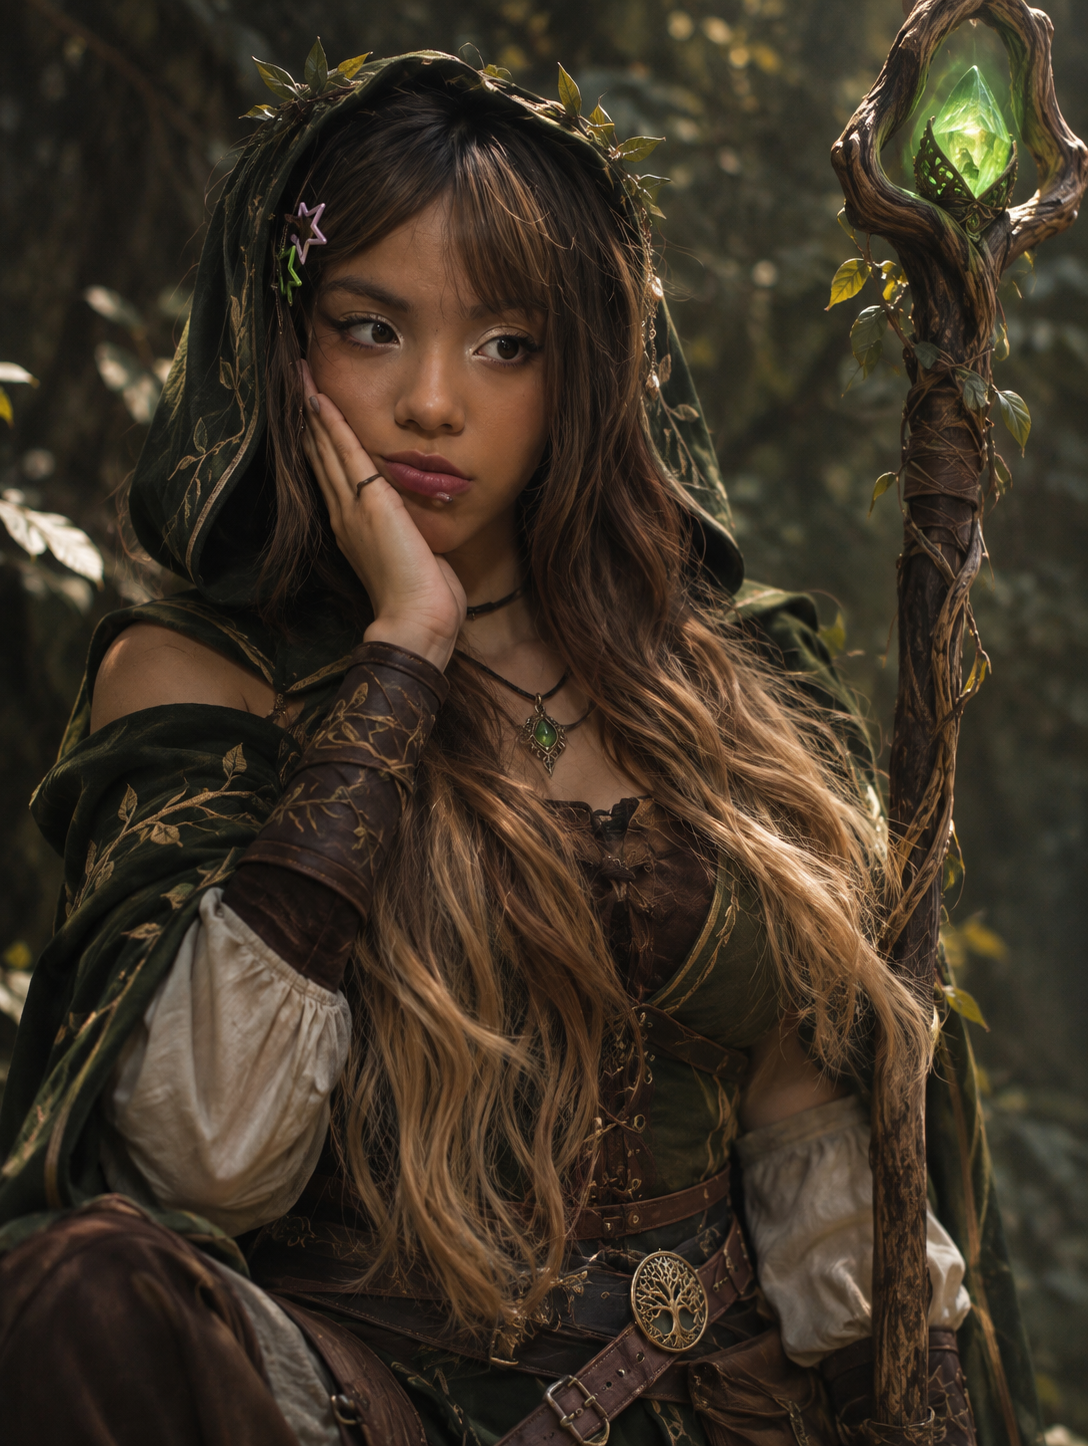
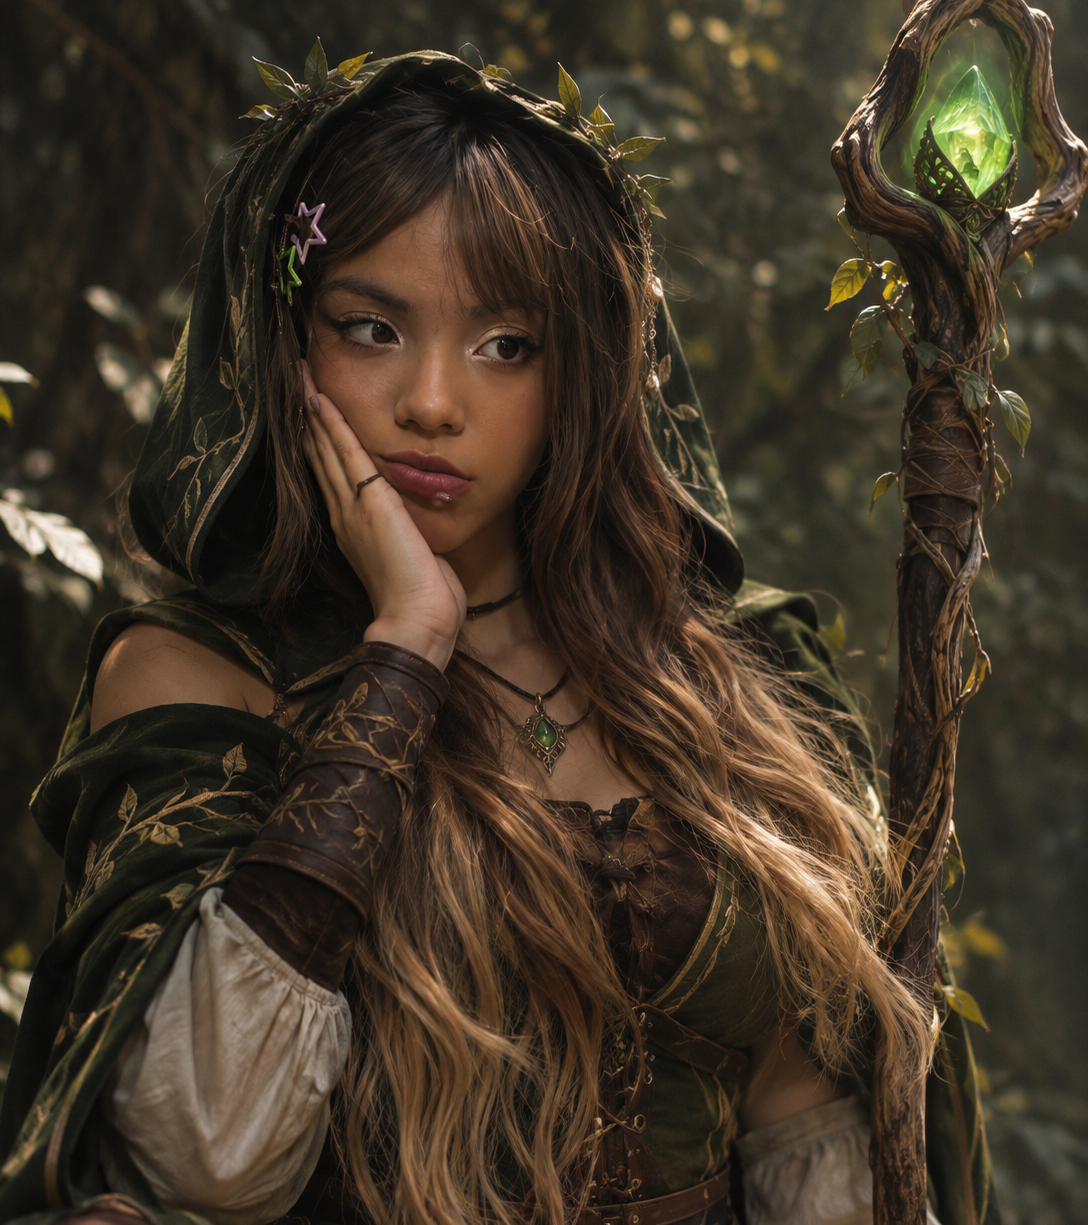
Atualiza imagens dos herois e corrige caminho do Bardo

diff --git a/js/dados.js b/js/dados.js
@@ -176,7 +176,7 @@ const DADOS_HEROIS = {
         }
     },
     "Bardo": {
-        imagem: "Imagens/bardo.jpg",
+        imagem: "Imagens/bardo.png",
         descricao: "Usa o carisma como arma: magia constante e MP quase infinito.",
         ataqueBasico: "magico",
         danosUsados: ["magico"],
